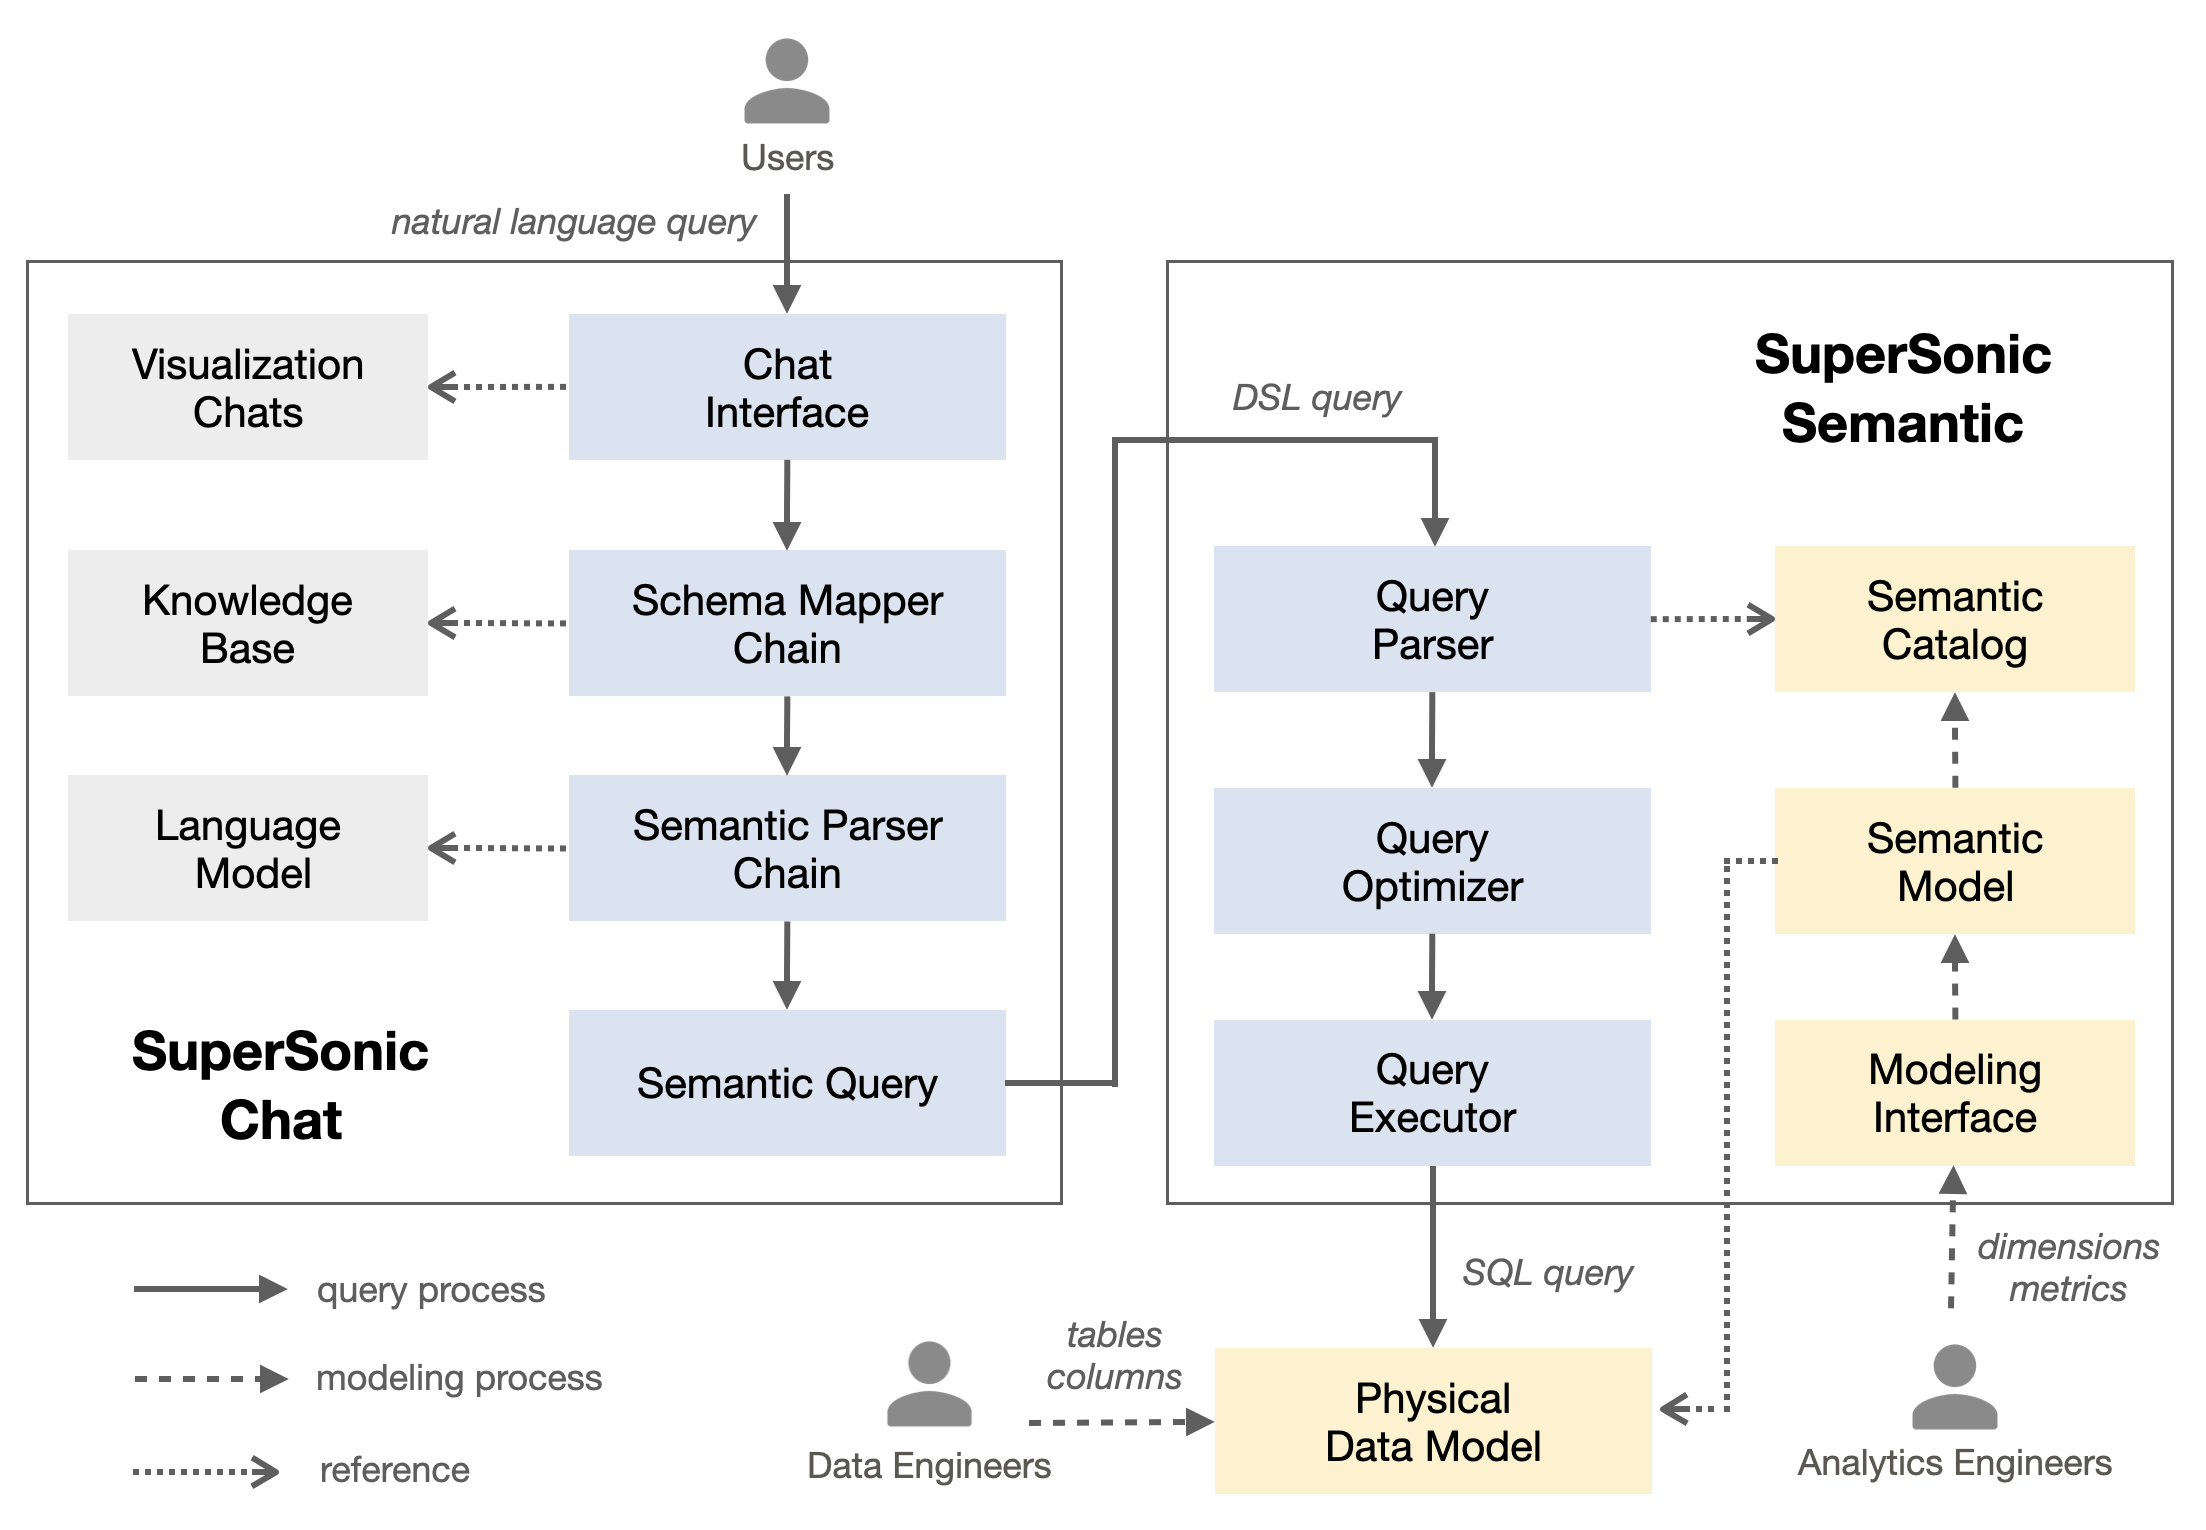
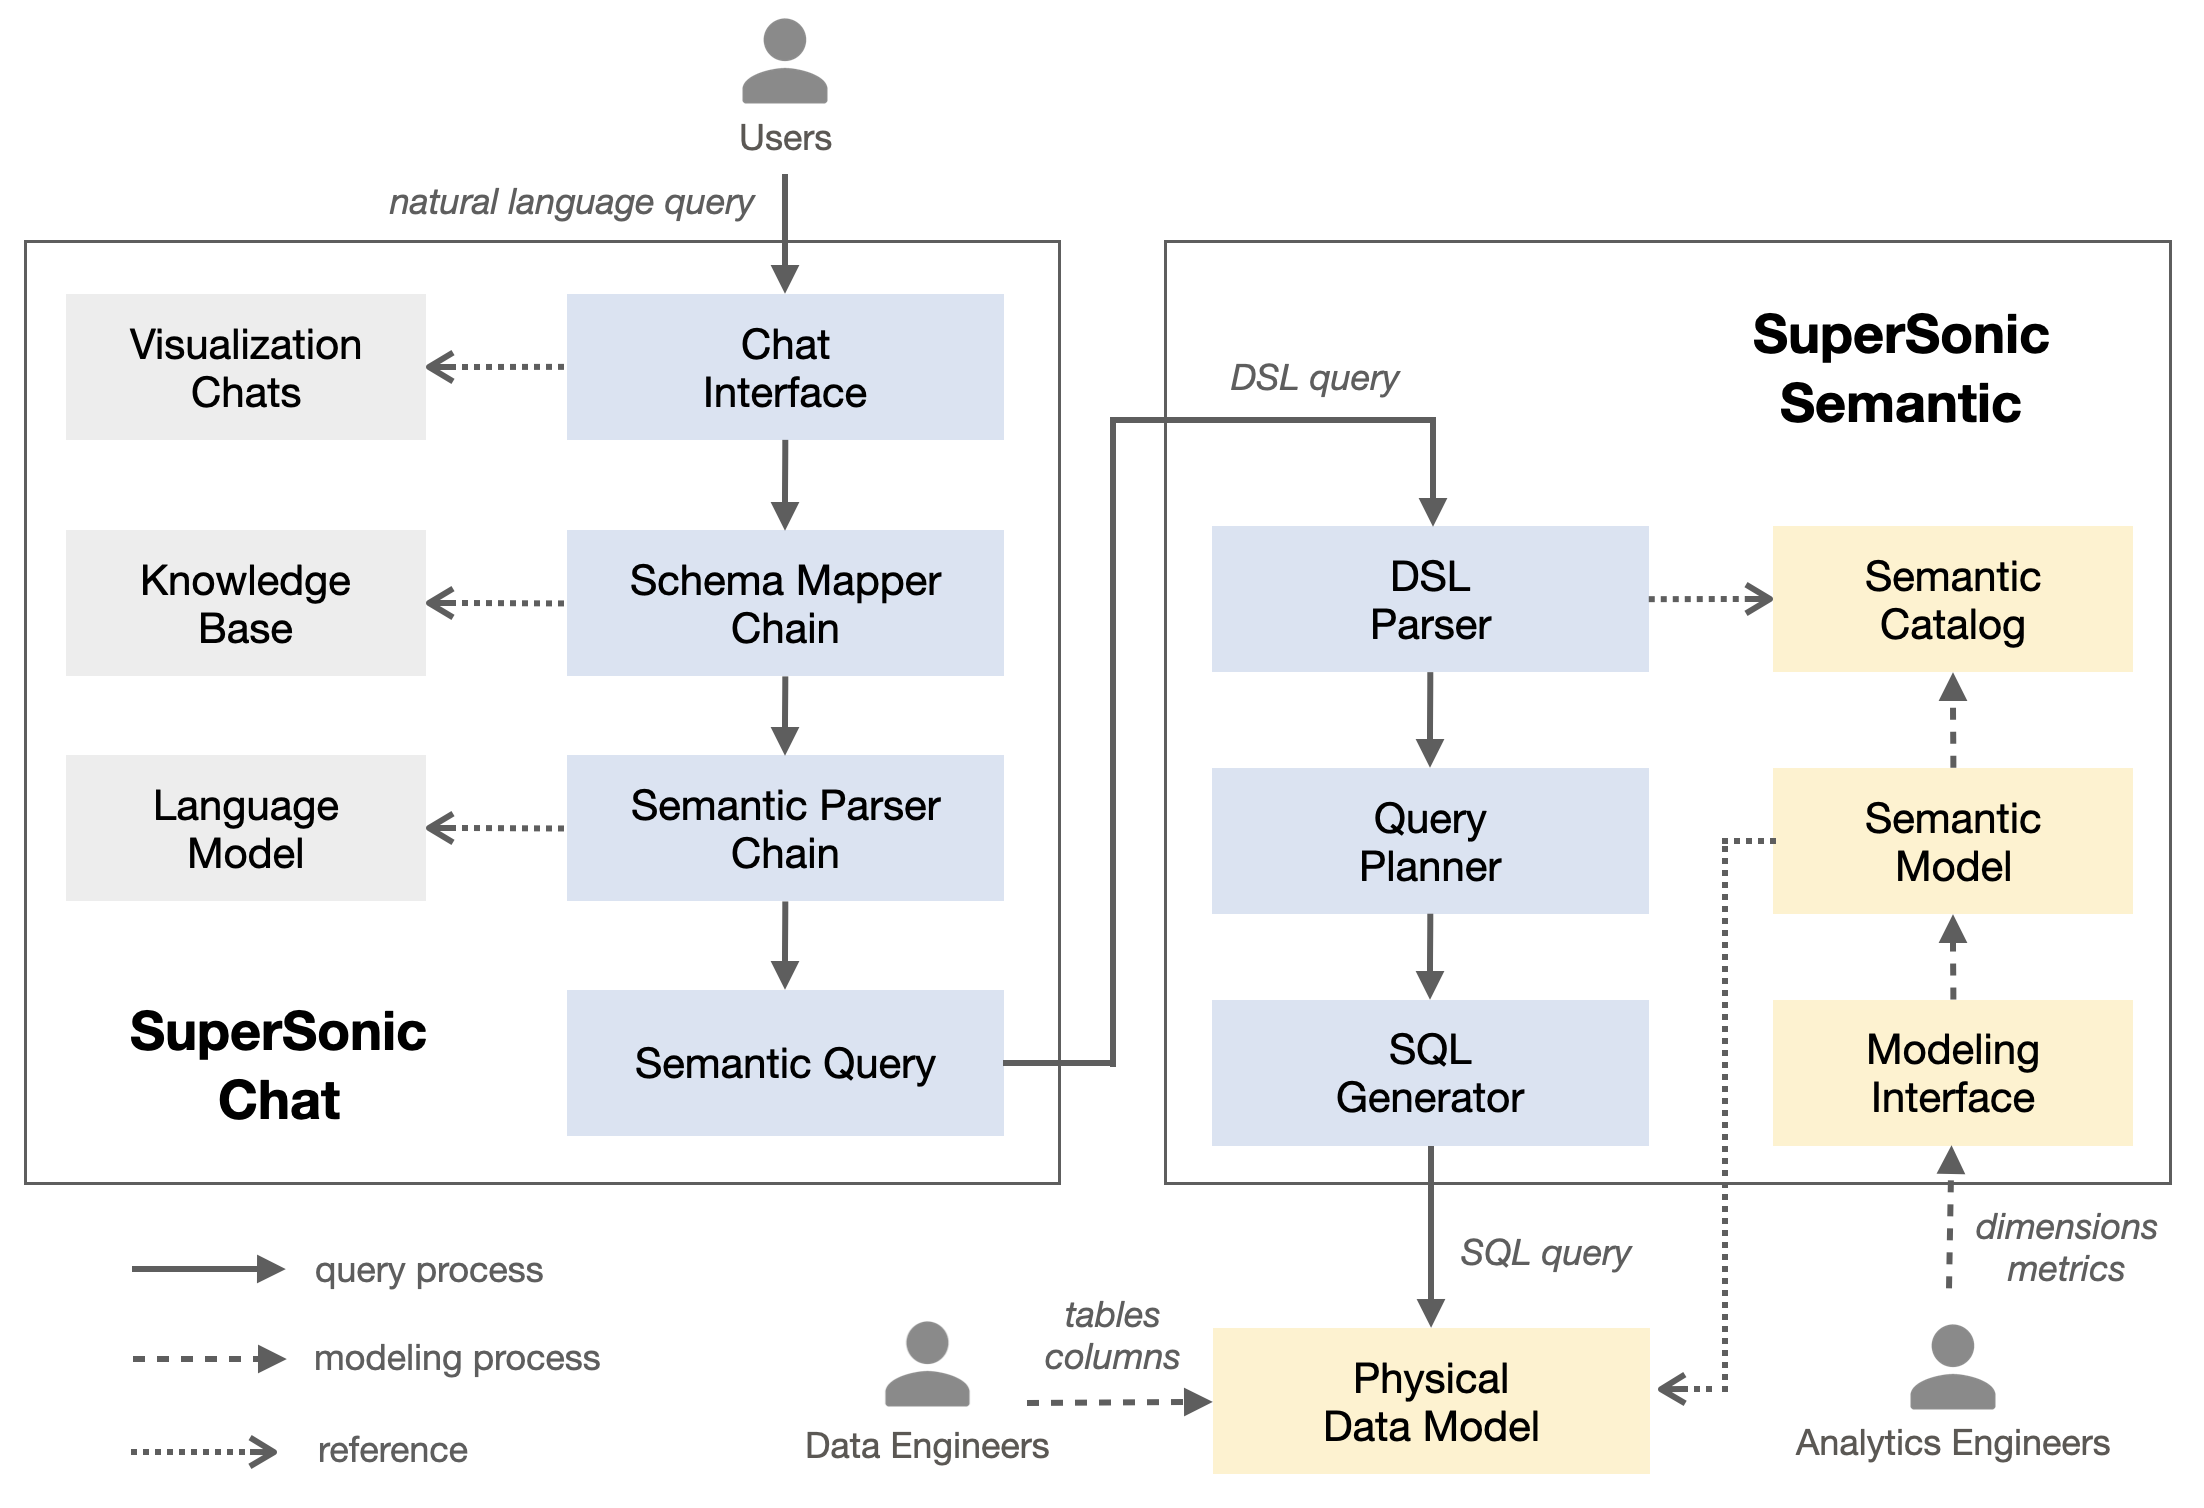
[docs]Update README and architecture diagram

diff --git a/README.md b/README.md
@@ -2,7 +2,7 @@ English | [中文](README_CN.md)
 
 # SuperSonic (超音数)
 
-**SuperSonic is an out-of-the-box yet highly extensible framework for building a data chatbot**. SuperSonic provides a chat interface that empowers users to query data using natural language and visualize the results with suitable charts. To enable such experience, the only thing necessary is to build a logical semantic model (definition of metrics, dimensions, relationships, etc) on top of the physical data stores, and no data modification or copying is required. Meanwhile SuperSonic is designed to be plug-and-play, allowing new functionalities to be added through plugins and core components to be integrated into other systems.
+**SuperSonic is an out-of-the-box yet highly extensible framework for building a data chatbot**. SuperSonic provides a chat interface that empowers users to query data using natural language and visualize the results with suitable charts. To enable such experience, the only thing necessary is to define logical semantic models (metrics, dimensions, relationships, etc) on top of physical data models, and no data modification or copying is required. Meanwhile SuperSonic is designed to be plugable, allowing new functionalities to be added through plugins and core components to be integrated into other systems.
 
 ## Motivation
 
@@ -19,32 +19,47 @@ With these ideas in mind, we developed SuperSonic as a reference implementation 
 - Built-in graphical interface for business users to enter data queries 
 - Built-in graphical interface for analytics engineers to manage semantic models
 - Support input auto-completion as well as query recommendation
-- Support multi-turn conversation and switch context automatically 
+- Support multi-turn conversation and history context management 
 - Support three-level permission control: domain-level, column-level and row-level 
 
 ## Extensible Components
 
-SuperSonic contains four core components, each of which can be extended or integrated: 
+SuperSonic is composed of two layers: supersonic-chat and supersonic-semantic. The chat layer is responsible for converting **natural language query** into semantic query (also known as DSL query), whereas the semantic layer is responsible for converting DSL query into **SQL query**. The high-level architecture and main process flow is shown in below diagram:
 
-<img src="./docs/images/supersonic_components.png" height="50%" width="50%" align="center"/> 
+<img src="./docs/images/supersonic_components.png" height="70%" width="70%" align="center"/> 
 
-- **Chat interface:** accepts user queries and answer results with approriate visualization charts. It supports input auto-completion as well as multi-turn conversation.
+### Chat Layer
 
-- **Schema mapper:** identifies references to schema elements in natural language queries. It matches queries against the knowledage base which is constructed using the schema of semantic models.
+The chat layer contains four core components:
 
-- **Semantic parser chain:** resolves query mode and choose the most suitable semantic model. It is composed of a group of rule-based and model-based parsers, each of which deals with specific scenarios.
+- **Chat Interface:** accepts user queries and answer results with appropriate visualization charts. It supports input auto-completion as well as multi-turn conversation.
 
-- **Semantic model layer:** manages semantic models and generate SQL statement given specific semantic model and related semantic items. It encapsulates technical concepts, calculation formulas and entity relationships of the underlying data.
+- **Schema Mapper Chain:** identifies references to semantic schema elements in user queries. It matches queries against the knowledage base which is constructed using the schema of semantic models.
+
+- **Semantic Parser Chain:** resolves query mode based on mapped semantic models. It is composed of a group of rule-based and model-based parsers, each of which deals with specific scenarios.
+
+- **Semantic Query:** performs execution according to the results of semantic parsing. The default semantic query would submit DSL to the semantic component, but new types of semantic query can be extended.
+
+### Semantic Layer
+
+The semantic layer contains four core components:
+
+- **Modeling Interface:** empowers analytics engineers to visually define and maintain semantic models. The configurations related to access permission and chat conversation can also be set on the UI.
+
+- **DSL Parser:** converts DSL expression to intermediate structures. To make it easily integratable with analytics applications, SQL (without joins and calculation formulas) is used as the DSL.
+
+- **Query Planner:** builds and optimizes query plans according to various rules. 
+
+- **SQL Generator:** generates final SQL expression (with joins and calculation formulas) based on the query plan.
 
 ## Quick Demo
 
-SuperSonic comes with a sample semantic data model as well as sample chat that can be used as a starting point. Please follow the steps: 
+SuperSonic comes with sample semantic models as well as chat conversations that can be used as a starting point. Please follow the steps: 
 
 - Download the latest prebuilt binary from the release page
-- Run script "bin/start-all.sh" to start services
-- Visit http://localhost:9080 in browser to explore chat interface
-- Visit http://localhost:9081 in browser to explore modeling interface
+- Run script "bin/start-standalone.sh" to start a standalone server
+- Visit http://localhost:9080 in browser to start exploration
 
 ## How to Build
 
-Download the source code and run script "assembly/bin/build-all.sh" to build both front-end webapp and back-end services
+Pull the source code and run script "assembly/bin/build-standalone.sh" to build packages in the standalone mode.

diff --git a/README_CN.md b/README_CN.md
@@ -22,9 +22,13 @@
 
 ## 易于扩展的组件
 
-超音数包含四个核心组件，每个都易于扩展或被集成：
+超音数主要分为两层：supersonic-chat and supersonic-semantic。问答层负责将自然语言查询转换为语义查询（也称为DSL查询），而语义层负责将DSL查询转换为SQL查询。超音数的整体架构和主流程如下图所示：
 
-<img src="./docs/images/supersonic_components.png" height="50%" width="50%" align="center"/> 
+<img src="./docs/images/supersonic_components.png" height="70%" width="70%" align="center"/> 
+
+### 问答层
+
+问答层包含以下4个核心组件：
 
 - **问答对话界面(chat interface)**：接受用户查询并选择合适的可视化图表呈现结果，支持输入联想和多轮对话。
 
@@ -32,17 +36,28 @@
 
 - **语义解析器链(semantic parser chain)**：识别查询模式并选择最匹配的语义模型，其由一组基于规则或模型的解析器组成，每个解析器可用于应对不同的特定场景。
 
-- **语义模型层(semantic model layer)**：建模阶段，负责构建与管理语义模型；查询阶段，依据给定的语义模型来生成SQL语句。
+- **语义查询(semantic query)**: 根据语义解析的结果执行查询，默认的语义查询会将DSL提交给语义组件，但可以扩展新类型的查询。 
+
+### 语义层
+
+语义层包含以下4个核心组件：
+
+- **语义建模界面(modeling interface)**：使分析工程师能够通过可视化方式定义和维护语义模型，与访问权限和聊天对话相关的配置也可以在用户界面上设置。
+
+- **DSL解析器(DSL parser)**：将DSL表达式转换为中间结构。为了使其易于与分析应用程序集成，使用SQL（不含join和计算公式）来作为DSL。
+
+- **查询计划器(query planner)**：根据各种规则来构建和优化查询计划。
+
+- **SQL生成器(SQL genenrator)**：基于查询计划来生成最终的SQL语句（（含join和计算公式））。
 
 ## 快速体验
 
 超音数自带样例的语义模型和问答对话，只需以下三步即可快速体验：
 
 - 从release page下载预先构建好的发行包
-- 运行 "bin/start-all.sh"启动前后端服务
-- 在浏览器访问http://localhost:9080 开启数据问答探索
-- 在浏览器访问http://localhost:9081 开启语义建模探索
+- 运行 "bin/start-standalone.sh"启动服务
+- 在浏览器访问http://localhost:9080 开启探索
 
 ## 如何构建
 
-下载源码包，运行脚本"assembly/bin/build-all.sh"，会将前后端一起编译打包
+下载源码包，运行脚本"assembly/bin/build-standalone.sh"，将所有服务一起编译打包
